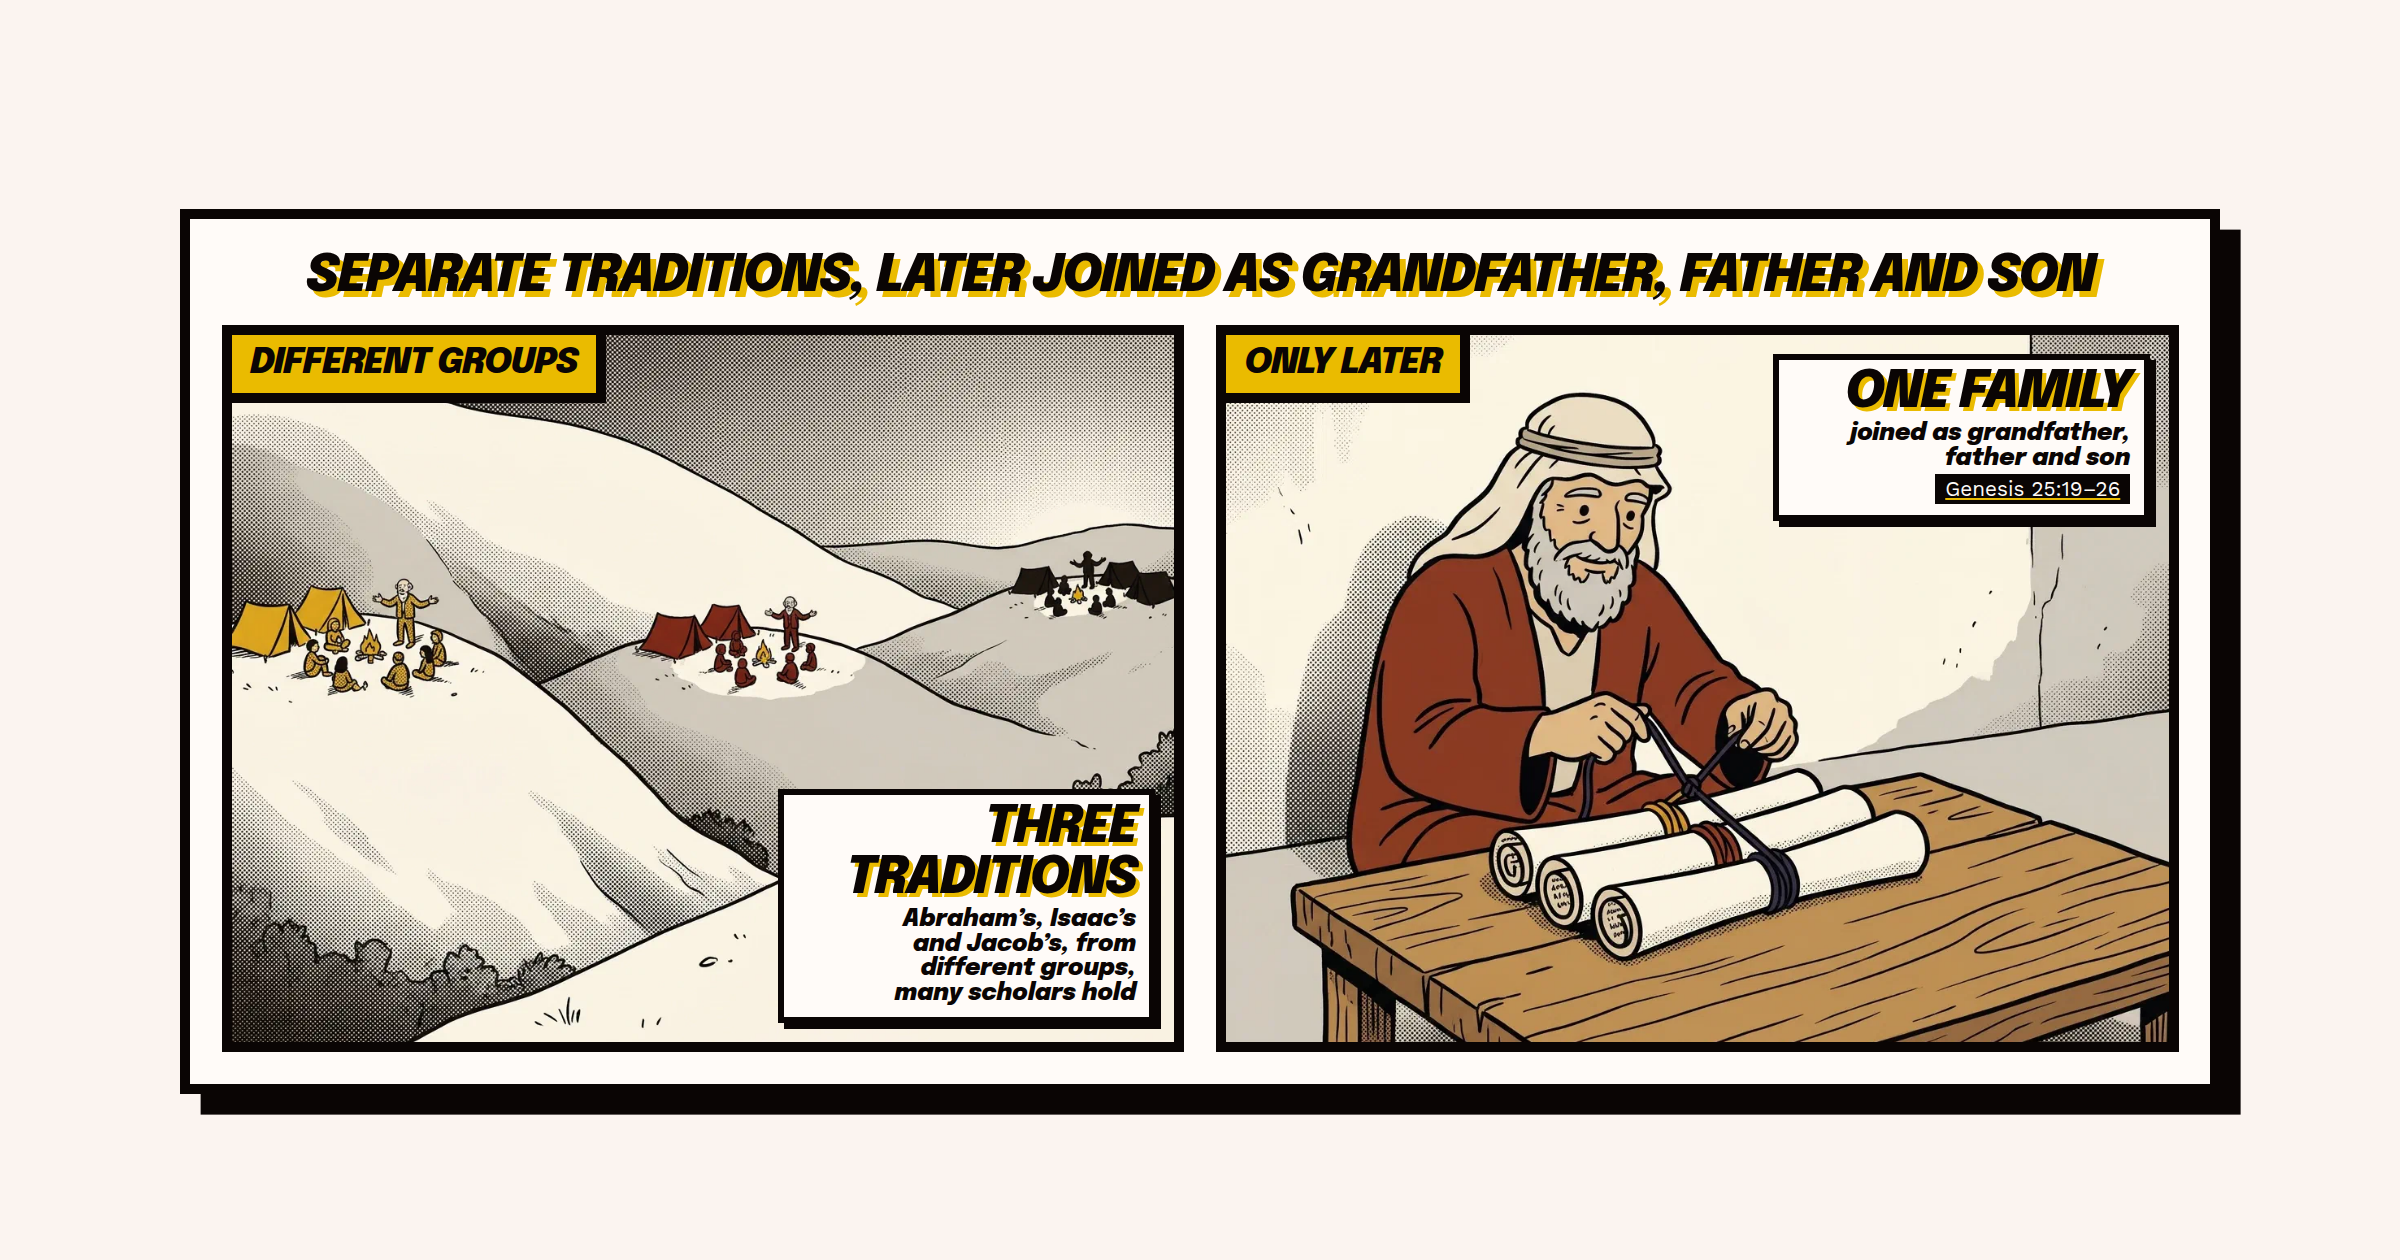
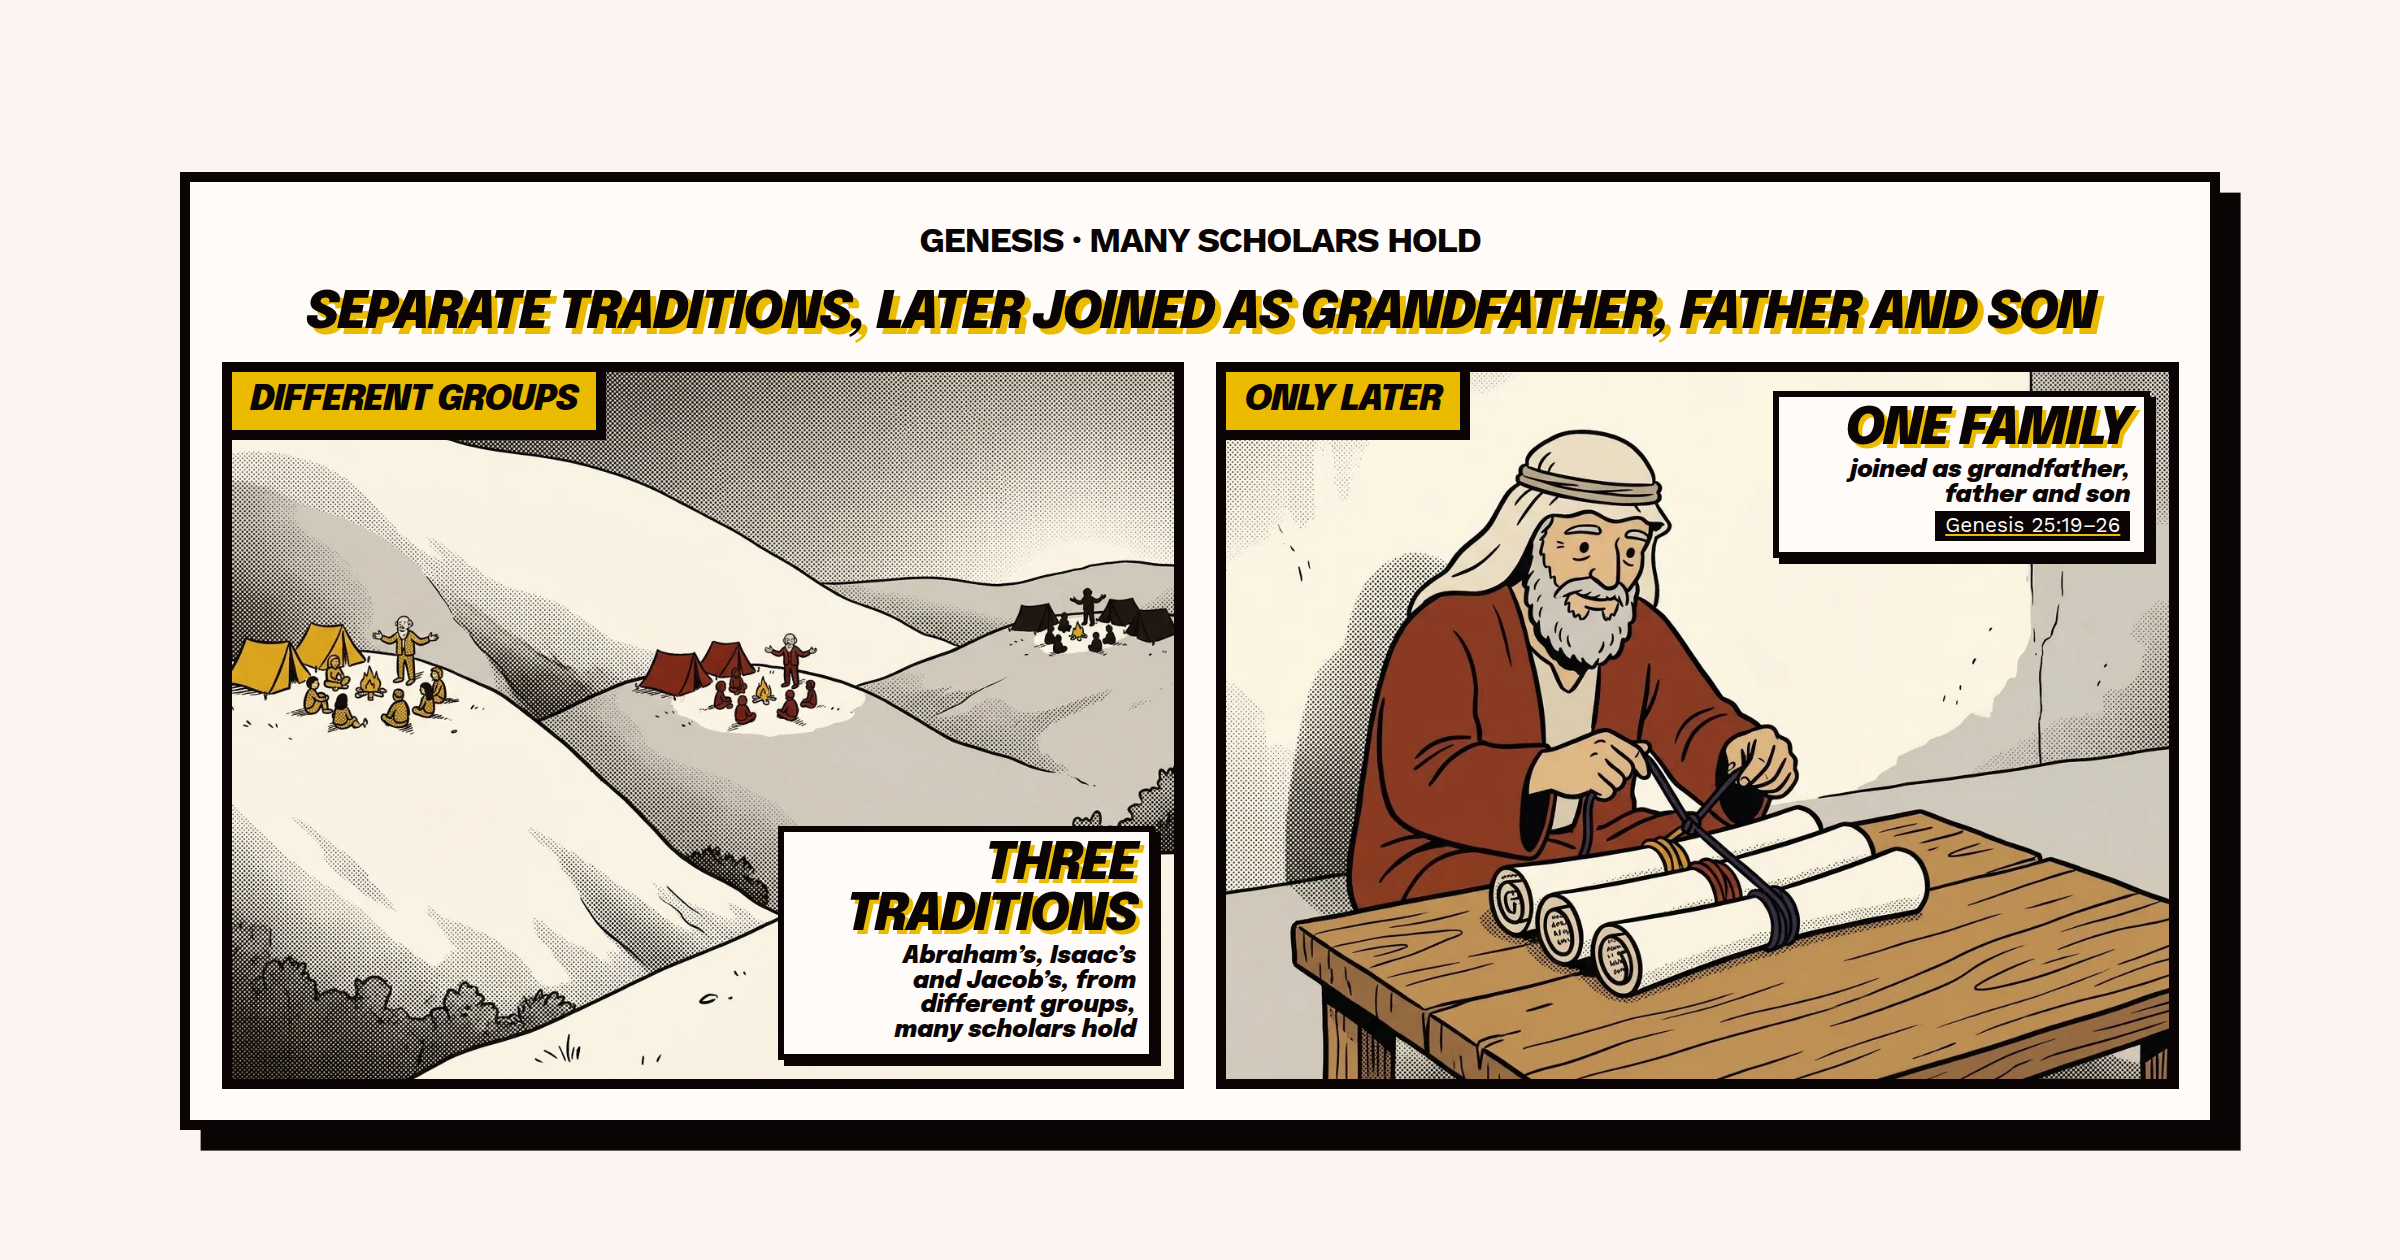
Abraham, Isaac and Jacob card keeps its "many scholars hold" kicker
The card hid the kicker, so the shared image stated a debated reading
as fact. Re-rendered both images.

diff --git a/hugo/assets/css/scholarship-custom/patriarchs.css b/hugo/assets/css/scholarship-custom/patriarchs.css
@@ -174,11 +174,7 @@
   grid-template-columns: repeat(2, minmax(0, 1fr));
 }
 
-/* The card: panels 1 and 3 (separate, then joined) side by side under the title. */
-.scholarship-share:has(#share-card:target) .ptr-comic__kicker {
-  display: none;
-}
-
+/* The card: panels 1 and 3 (separate, then joined) side by side under the title. The kicker stays: it carries the "many scholars hold" hedge the shared card needs. */
 .scholarship-share:has(#share-card:target) .ptr-comic__page {
   gap: var(--space-2xs);
   padding: var(--space-xs);
